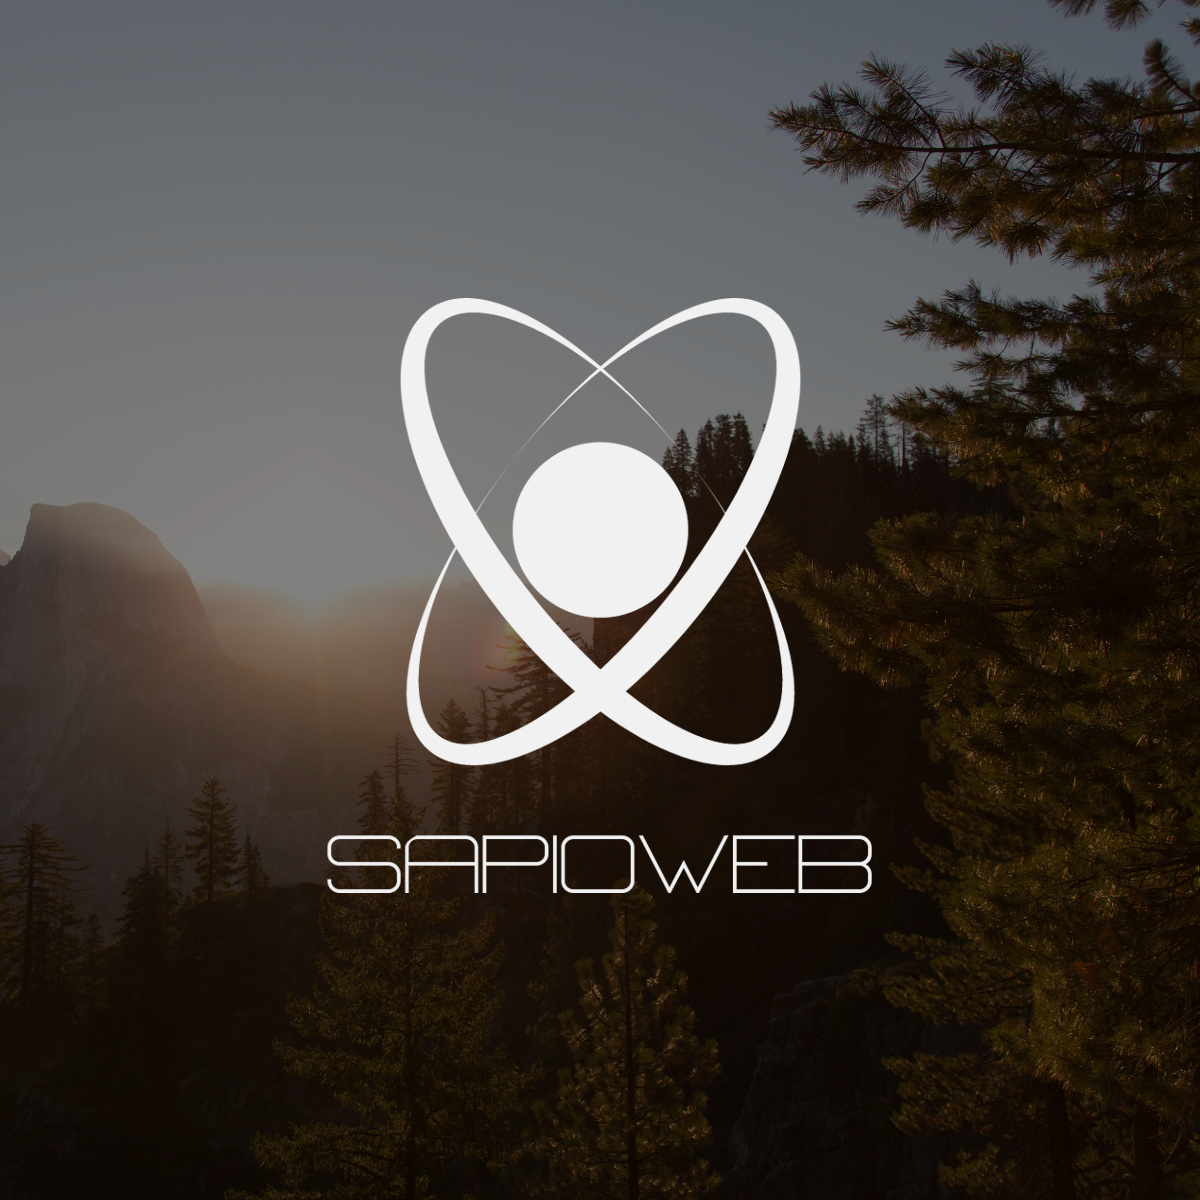
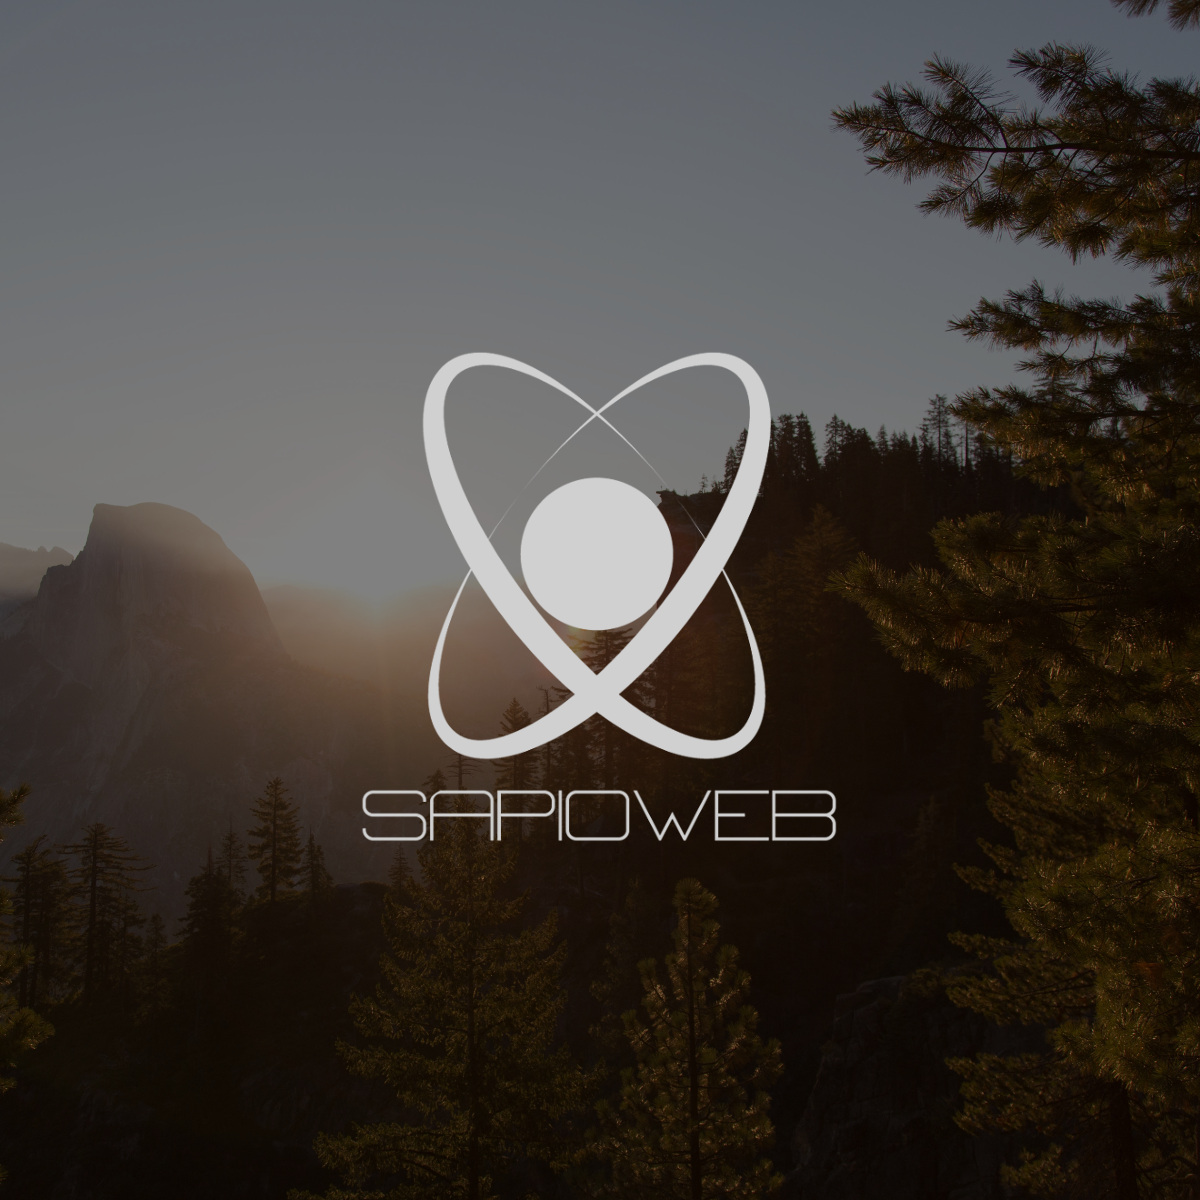
ogImage update, content fix on blog page

diff --git a/resources/views/blog.blade.php b/resources/views/blog.blade.php
@@ -64,7 +64,7 @@
 					<div class=title-block>
 						<h2>What are gists?</h2>
 					</div>
-					<p>Gists are a great way to share your work. You can share single files, parts of files, or full applications. You can access gists at https://gist.github.com. Every gist is a Git repository, which means that it can be forked, cloned, and manipulated in every way.</p>
+					<p>Gists are a great way to share your work. You can share single files, parts of files, or full applications. You can access gists at https://gist.github.com. Every gist is a Git repository, which means it can be forked, cloned, and manipulated in every way.</p>
 				</div>
 			</div>
 		</section>
